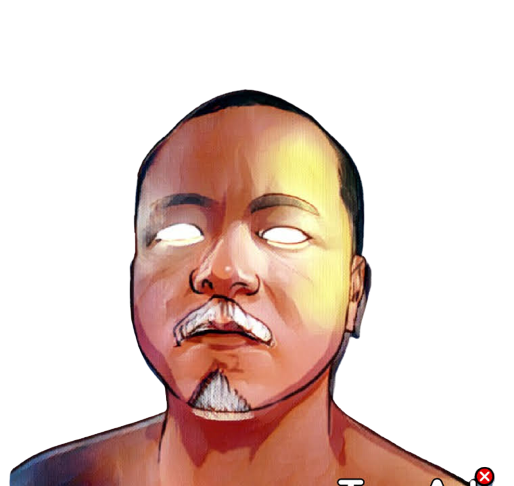
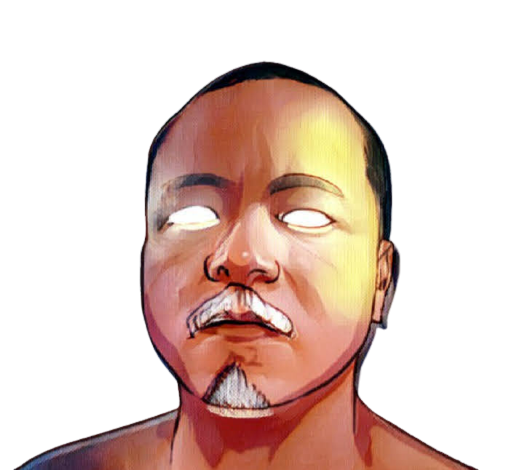
modificação

Changed region(s): [[0.0, 0.1191, 0.965, 1.0]]

diff --git a/site-home/style.css b/site-home/style.css
@@ -1,49 +1,34 @@
 * {
     margin: 0;
-    padding: 0;
-    box-sizing: border-box;
 }
-body {
-    display: flex;
-    flex-wrap: wrap;
-    margin: 3px;
-    flex: 1 1 100vw;
-}
-header {
-    flex: 1 1 100vw;
-    height: 30%;
-}
-header #logo {
-    flex: 0 1 200px;
-    background: #c9c9c9;
-}
-nav { 
-    flex: 1 1 100vw;
-    align-items: center;
-    justify-content: flex-end;
-}
-nav a {
-    margin: 3%;
-    font-size: 20pt;
-}
-main {
-    flex: 20 1 500px;
-    height: 70%;
-}
-aside{
-    flex: 1 1 200px;
-}
-footer {
-    flex: 1 1 100vw;
-    height: 10%;
-    align-items: center;
-}
-header, nav, main, aside, footer {
-    display: flex;
+header, main, footer {
     margin: 3px;
     background-color: #a1a1a1;
 }
+header, main{
+    display: flex;
+}
+header #logo{
+    flex: 1 1 500px;
+    align-items: left;
+}
+nav {
+    flex: 1 1 100px;
+    align-items: right;
+    
+}
 a {
     text-decoration: none;
-    color: inherit;
+}
+main {
+    display: flex;
+}
+h1, p {
+    flex: 1 1 100px;
+    align-items: left;
+}
+main img {
+    flex: 1 1 100px;
+    position: right;
+    right: 0;
 }

diff --git a/site-home/index.html b/site-home/index.html
@@ -16,11 +16,16 @@
     </header>
     
     <main>
-        <h1>------ Olá, Mundo!</h1>
-        <p>Eu sou Isaque ALves. Estudante de ciência da       computação na Estácio, buscando experiência    profissional e constante aprendizado.
-        </p>
-        <img src="img.png" alt="Foto">
+        <article>
+            <h1>--- Olá, Mundo!</h1>
+            
+            <p> sou Isaque ALves. Estudante de ciência da      computação na Estácio, buscando experiência    profissional e constante aprendizado.</p>
+            
+            <img id="img" src="foto.png" alt="Foto">
+        </article>
     </main>
-    <footer>Isaque Alaves dos Santos</footer>
+    <footer>
+        <p>Site criado por Isaque Alaves dos Santos</p>
+    </footer>
 </body>
 </html>
